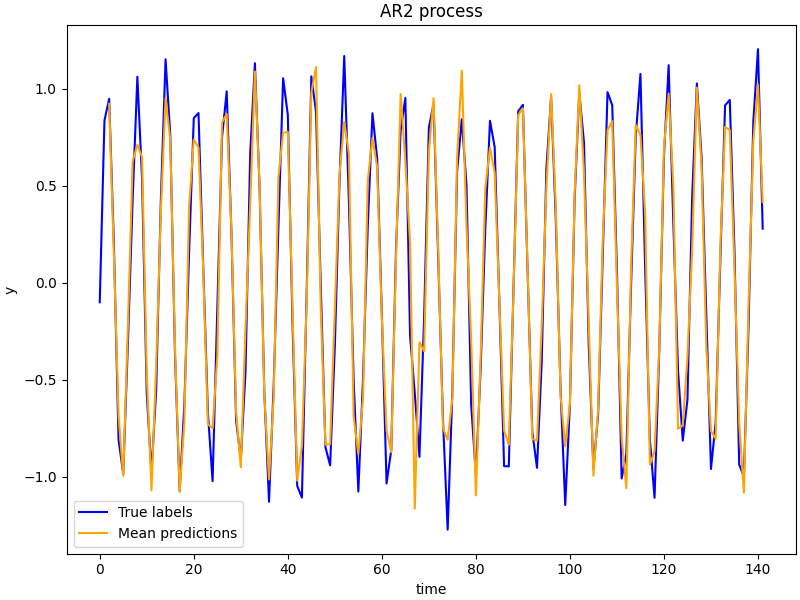
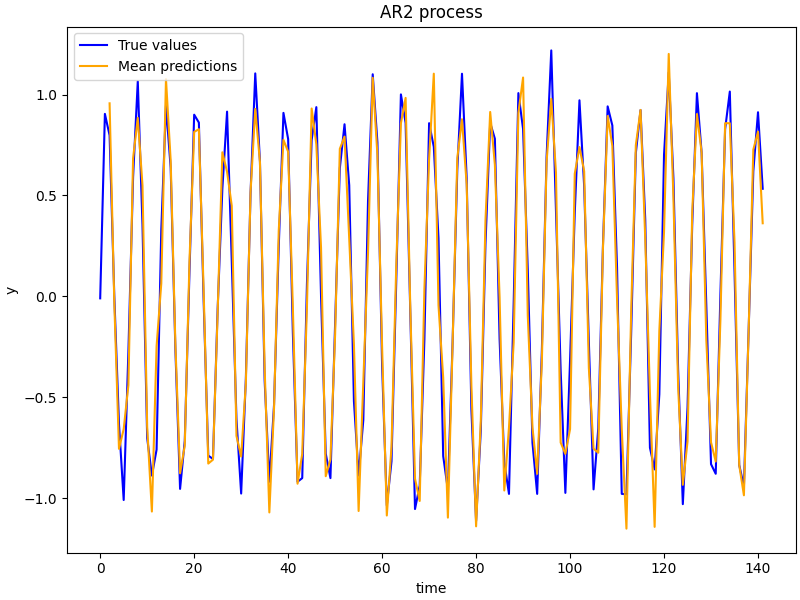
describe AR2 process

diff --git a/examples/ar2.py b/examples/ar2.py
@@ -1,12 +1,28 @@
 # Copyright Contributors to the Pyro project.
 # SPDX-License-Identifier: Apache-2.0
 
-"""
+r"""
 Example: AR2 process
 ====================
 
 In this example we show how to use ``jax.lax.scan``
 to avoid writing a (slow) Python for-loop.
+
+To demonstrate, we will be implementing an AR2 process.
+The idea is that we have some times series
+
+.. math::
+
+    y_0, y_1, ..., y_T
+
+and we seek parameters :math:`c`, :math:`\alpha_1`, and :math:`\alpha_2`
+such that for each :math:`t` between :math:`2` and :math:`T`, we have
+
+.. math::
+
+    y_t = c + \alpha_1 y_{t-1} + \alpha_2 y_{t-2} + \epsilon_t
+
+where :math:`\epsilon_t` is an error term.
 
 .. image:: ../_static/img/examples/ar2.png
     :align: center
@@ -27,26 +43,19 @@ import jax.numpy as jnp
 import numpyro
 import numpyro.distributions as dist
 
-matplotlib.use("Agg")  # noqa: E402
+matplotlib.use("Agg")
 
 
 def ar2(y, unroll_loop=False):
-    alpha_1 = numpyro.sample(
-        "alpha_1",
-        dist.TruncatedDistribution(dist.Normal(0, 1), low=-1, high=1),
-    )
-    alpha_2 = numpyro.sample(
-        "alpha_2",
-        dist.TruncatedDistribution(dist.Normal(0, 1), low=-1, high=1),
-    )
-    const = numpyro.sample(
-        "const",
-        dist.Normal(0, 1),
-    )
-    sigma = numpyro.sample(
-        "sigma",
-        dist.Normal(0, 1),
-    )
+    alpha_1 = numpyro.sample("alpha_1", dist.Normal(0, 1))
+    alpha_2 = numpyro.sample("alpha_2", dist.Normal(0, 1))
+    const = numpyro.sample("const", dist.Normal(0, 1))
+    sigma = numpyro.sample("sigma", dist.Normal(0, 1))
+
+    def transition_fn(carry, y):
+        y_1, y_2 = carry
+        pred = const + alpha_1 * y_1 + alpha_2 * y_2
+        return (y, y_1), pred
 
     if unroll_loop:
         preds = []
@@ -54,12 +63,6 @@ def ar2(y, unroll_loop=False):
             preds.append(const + alpha_1 * y[i - 1] + alpha_2 * y[i - 2])
         preds = jnp.asarray(preds)
     else:
-
-        def transition_fn(carry, y):
-            y_1, y_2 = carry
-            pred = alpha_1 * y_1 + alpha_2 * y_2
-            return (y, y_1), pred
-
         _, preds = jax.lax.scan(transition_fn, (y[1], y[0]), y[2:])
 
     mu = numpyro.deterministic("mu", preds)
@@ -76,17 +79,13 @@ def run_inference(model, args, rng_key, y):
         num_chains=args.num_chains,
         progress_bar=False if "NUMPYRO_SPHINXBUILD" in os.environ else True,
     )
-    mcmc.run(
-        rng_key,
-        y=y,
-    )
+    mcmc.run(rng_key, y=y)
     mcmc.print_summary()
     print("\nMCMC elapsed time:", time.time() - start)
     return mcmc.get_samples()
 
 
 def main(args):
-
     # generate artifical dataset
     num_data = 142
     t = np.arange(0, num_data)
@@ -103,7 +102,7 @@ def main(args):
     fig, ax = plt.subplots(figsize=(8, 6), constrained_layout=True)
 
     # plot training data
-    ax.plot(t, y, color="blue", label="True labels")
+    ax.plot(t, y, color="blue", label="True values")
     # plot mean prediction
     # note that we can't make predictions for the first two points,
     # because they don't have lagged values to use prediction.
@@ -112,7 +111,6 @@ def main(args):
     ax.legend()
 
     plt.savefig("ar2_plot.pdf")
-    fig.savefig("docs/source/_static/img/examples/ar2.png")
 
 
 if __name__ == "__main__":
